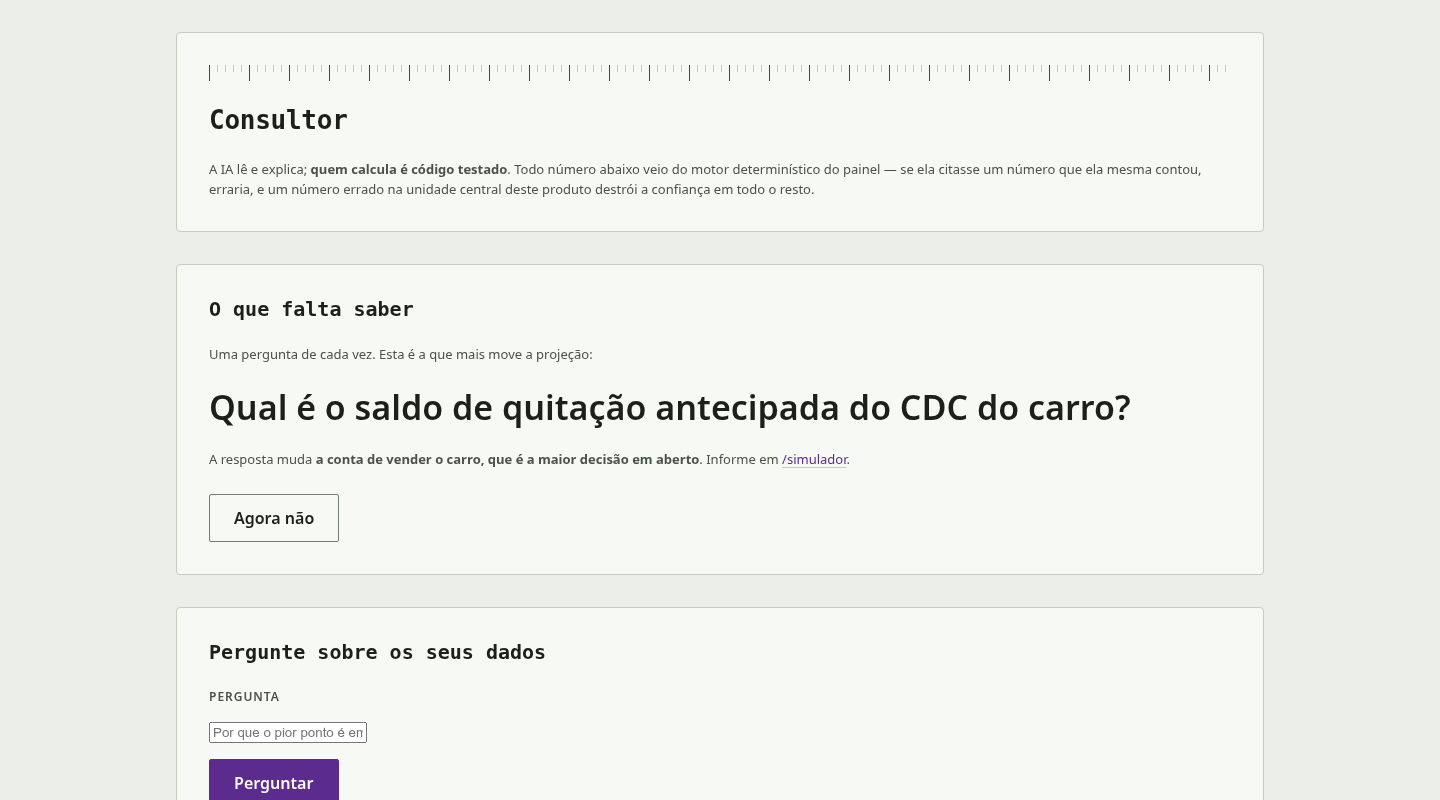
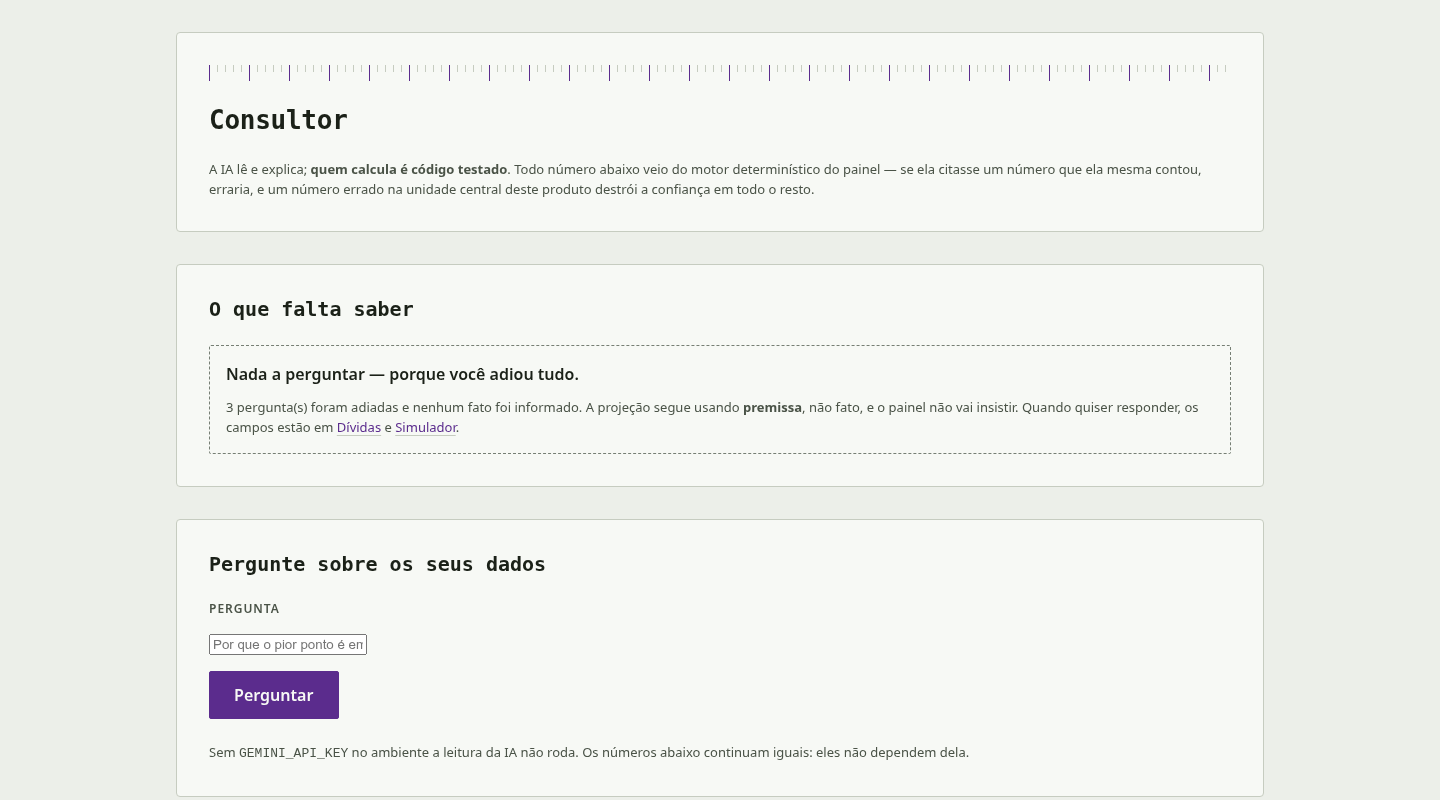
fix(009): the screen that proves the model invents nothing was showing five of eight lines
Approved, with five remarks; the first inverted the central guarantee of the
item. The table listed five numbers while the context sent eight — the three
left out included cash and card, so a figure the model was authorised to cite
would not be found on screen and would read as invention. Screen and context are
now one list, built in one place.

Also: the unavailability message carried the Python/httpx class name into pt-BR
prose, so a refused key, a timeout and a provider error all reached the owner as
the same unactionable sentence; "nothing to ask because everything is answered"
and "nothing to ask because you postponed everything" were the same state, and
only the first means the projection runs on fact; postponing accepted any string
as a primary key on an authenticated POST; and the deliberate acceptance of the
misspelled environment variable had no line saying why.

diff --git a/app/templates/consultor.html b/app/templates/consultor.html
@@ -28,9 +28,17 @@
     </form>
     {% else %}
     <div class="empty">
+      {% if postponed %}
+      <p class="empty-title">Nada a perguntar — porque você adiou tudo.</p>
+      <p class="lede">{{ postponed }} pergunta(s) foram adiadas e nenhum fato foi informado. A
+        projeção segue usando <strong>premissa</strong>, não fato, e o painel não vai insistir.
+        Quando quiser responder, os campos estão em <a href="/dividas">Dívidas</a> e
+        <a href="/simulador">Simulador</a>.</p>
+      {% else %}
       <p class="empty-title">Nada a perguntar.</p>
       <p class="lede">Tudo o que só você sabe já está informado e dentro da validade. Enquanto
         continuar assim, a projeção usa fato e não premissa.</p>
+      {% endif %}
     </div>
     {% endif %}
   </section>
@@ -56,23 +64,20 @@
   </section>
   <section id="numeros" class="panel panel-wide">
     <h2 class="section-title">O que ela lê</h2>
-    <p class="lede">Este é o contexto exato que vai para o modelo. Ele pode copiar daqui e mais
-      nada.</p>
+    <p class="lede">Este é o contexto exato que vai para o modelo — as mesmas linhas, na mesma
+      ordem. Ele pode copiar daqui e mais nada, e por isso você acha na tela todo número que ele
+      citar.</p>
     <div class="table-scroll">
       <table class="data-table">
         <caption class="sr-only">Números determinísticos entregues ao modelo.</caption>
         <thead><tr><th scope="col">Número</th><th scope="col" class="col-num">Valor</th></tr></thead>
         <tbody>
-          <tr data-numero="consolidada"><td>Posição consolidada</td>
-            <td class="cifra col-num">{{ numbers['consolidated']|brl }}</td></tr>
-          <tr data-numero="comprometido"><td>Comprometido por mês</td>
-            <td class="cifra col-num">{{ numbers['committed']|brl }}</td></tr>
-          <tr data-numero="resultado"><td>Resultado mensal</td>
-            <td class="cifra col-num">{{ numbers['monthly_result']|brl }}</td></tr>
-          <tr data-numero="reserva"><td>Reserva alvo</td>
-            <td class="cifra col-num">{{ numbers['reserve_target']|brl }}</td></tr>
-          <tr data-numero="pior"><td>Pior ponto dos próximos 45 dias</td>
-            <td class="cifra col-num">{{ numbers['worst_balance']|brl }}</td></tr>
+          {% for line in context_lines %}
+          <tr data-numero="{{ loop.index }}">
+            <td>{{ line['label'] }}</td>
+            <td class="cifra col-num">{{ line['value'] }}</td>
+          </tr>
+          {% endfor %}
         </tbody>
       </table>
     </div>

diff --git a/app/advisor/context.py b/app/advisor/context.py
@@ -27,25 +27,34 @@ def snapshot(conn: sqlite3.Connection, *, today: date) -> dict:
     }
 
 
-def as_text(numbers: dict) -> str:
-    # Every figure the model may say, spelled the way the screen spells it. It
-    # copies from here or it says it does not know: the model interprets, the
-    # code computes (invariante 23).
+def lines(numbers: dict) -> list[dict]:
+    # The screen renders these and the model receives these — one list, so the
+    # claim "you find on screen every number it may cite" stays true. Showing a
+    # subset would make the screen that exists to prove the model invents nothing
+    # the very thing that produces the suspicion.
     when = (
         f"{numbers['months_to_objective']} meses"
         if numbers["months_to_objective"] is not None
         else "não chega, enquanto o resultado mensal não virar positivo"
     )
-    return "\n".join(
-        (
-            f"Data de referência: {numbers['reference']}.",
-            f"Posição consolidada: {brl(numbers['consolidated'])}.",
-            f"Caixa: {brl(numbers['cash'])}. Cartão: {brl(numbers['card'])}.",
-            f"Comprometido por mês: {brl(numbers['committed'])}.",
-            f"Resultado mensal: {brl(numbers['monthly_result'])}.",
-            f"Reserva alvo: {brl(numbers['reserve_target'])}.",
-            f"Tempo até o objetivo: {when}.",
-            f"Pior ponto dos próximos 45 dias: {brl(numbers['worst_balance'])}"
-            f" em {numbers['worst_date']}.",
-        )
-    )
+    return [
+        {"label": "Data de referência", "value": numbers["reference"]},
+        {"label": "Posição consolidada", "value": brl(numbers["consolidated"])},
+        {"label": "Caixa", "value": brl(numbers["cash"])},
+        {"label": "Cartão", "value": brl(numbers["card"])},
+        {"label": "Comprometido por mês", "value": brl(numbers["committed"])},
+        {"label": "Resultado mensal", "value": brl(numbers["monthly_result"])},
+        {"label": "Reserva alvo", "value": brl(numbers["reserve_target"])},
+        {"label": "Tempo até o objetivo", "value": when},
+        {
+            "label": f"Pior ponto dos próximos 45 dias, em {numbers['worst_date']}",
+            "value": brl(numbers["worst_balance"]),
+        },
+    ]
+
+
+def as_text(numbers: dict) -> str:
+    # Every figure the model may say, spelled the way the screen spells it. It
+    # copies from here or it says it does not know: the model interprets, the
+    # code computes (invariante 23).
+    return "\n".join(f"{line['label']}: {line['value']}." for line in lines(numbers))

diff --git a/tests/test_advisor.py b/tests/test_advisor.py
@@ -137,3 +137,66 @@ def test_the_snapshot_never_calls_the_model(taxonomy_conn, monkeypatch):
     conn = base(taxonomy_conn)
 
     assert snapshot(conn, today=date(2026, 9, 5))["consolidated"] is not None
+
+
+def test_the_screen_shows_every_line_the_model_receives(taxonomy_conn):
+    from app.advisor.context import lines
+
+    conn = base(taxonomy_conn)
+    numbers = snapshot(conn, today=REFERENCE)
+    shown = lines(numbers)
+    text = as_text(numbers)
+
+    assert len(shown) == len(text.splitlines())
+    for line in shown:
+        assert f"{line['label']}: {line['value']}." in text
+
+
+def test_a_question_that_is_not_in_the_catalogue_is_refused(taxonomy_conn):
+    from app.advisor.gaps import UnknownQuestionError
+
+    with pytest.raises(UnknownQuestionError):
+        dismiss(taxonomy_conn, "x" * 5000)
+    with pytest.raises(UnknownQuestionError):
+        dismiss(taxonomy_conn, "<script>alert(1)</script>")
+
+    assert taxonomy_conn.execute("SELECT COUNT(*) FROM advisor_questions").fetchone()[0] == 0
+
+
+def test_postponing_everything_is_not_the_same_as_answering_everything(taxonomy_conn):
+    from app.advisor.gaps import WANTED, postponed
+
+    conn = base(taxonomy_conn)
+    for wanted in WANTED:
+        dismiss(conn, wanted["name"])
+
+    assert next_question(conn, today=REFERENCE) is None
+    assert postponed(conn) == len(WANTED)
+
+
+def test_the_refusal_of_the_provider_is_said_in_portuguese(monkeypatch):
+    class Answer:
+        status_code = 401
+
+        def raise_for_status(self):
+            raise httpx.HTTPStatusError("401", request=None, response=self)
+
+    monkeypatch.setattr(httpx, "post", lambda *a, **k: Answer())
+
+    with pytest.raises(AdvisorUnavailableError) as refusal:
+        ask("e daí?", "contexto", api_key="chave-errada")
+
+    assert "chave foi recusada" in str(refusal.value)
+    assert "HTTPStatusError" not in str(refusal.value)
+
+
+def test_a_timeout_is_said_in_portuguese(monkeypatch):
+    def slow(*args, **kwargs):
+        raise httpx.ReadTimeout("demorou")
+
+    monkeypatch.setattr(httpx, "post", slow)
+
+    with pytest.raises(AdvisorUnavailableError) as refusal:
+        ask("e daí?", "contexto", api_key="chave")
+
+    assert "demorou demais" in str(refusal.value)

diff --git a/app/advisor/gemini.py b/app/advisor/gemini.py
@@ -25,6 +25,27 @@ class AdvisorUnavailableError(RuntimeError):
     pass
 
 
+UNAUTHORISED = (401, 403)
+TOO_MANY = 429
+
+
+def _refused(status: int) -> str:
+    # The owner cannot act on "HTTPStatusError". They can act on "the key was
+    # refused" (norma 16: interface em pt-BR, e erro que diz o próximo ato).
+    if status in UNAUTHORISED:
+        return "a chave foi recusada pelo provedor"
+    if status == TOO_MANY:
+        return "o provedor recusou por excesso de chamadas; tente daqui a pouco"
+    return "o provedor respondeu com erro"
+
+
+def _said(reason: str) -> str:
+    return (
+        f"A leitura da IA está indisponível: {reason}. "
+        "Os números da tela são os mesmos, e eles não dependem dela."
+    )
+
+
 @dataclass(frozen=True)
 class Reading:
     text: str
@@ -51,11 +72,14 @@ def ask(question: str, context: str, *, api_key: str | None) -> Reading:
         answer.raise_for_status()
         parts = answer.json()["candidates"][0]["content"]["parts"]
         text = "".join(part.get("text", "") for part in parts).strip()
-    except (httpx.HTTPError, KeyError, IndexError, ValueError, json.JSONDecodeError) as failure:
-        raise AdvisorUnavailableError(
-            f"A leitura da IA está indisponível ({type(failure).__name__}). "
-            "Os números da tela são os mesmos, e eles não dependem dela."
-        ) from None
+    except httpx.TimeoutException:
+        raise AdvisorUnavailableError(_said("o modelo demorou demais para responder")) from None
+    except httpx.HTTPStatusError as failure:
+        raise AdvisorUnavailableError(_said(_refused(failure.response.status_code))) from None
+    except httpx.HTTPError:
+        raise AdvisorUnavailableError(_said("não foi possível alcançar o modelo")) from None
+    except (KeyError, IndexError, ValueError, json.JSONDecodeError):
+        raise AdvisorUnavailableError(_said("o modelo respondeu num formato inesperado")) from None
     if not text:
         raise AdvisorUnavailableError(
             "A leitura da IA voltou vazia. Os números da tela são os mesmos."

diff --git a/app/routers/advisor.py b/app/routers/advisor.py
@@ -6,8 +6,14 @@ from fastapi import APIRouter, Form
 from starlette.requests import Request
 from starlette.responses import Response
 
-from app.advisor.context import as_text, snapshot
-from app.advisor.gaps import dismiss, next_question, pending
+from app.advisor.context import as_text, lines, snapshot
+from app.advisor.gaps import (
+    UnknownQuestionError,
+    dismiss,
+    next_question,
+    pending,
+    postponed,
+)
 from app.advisor.gemini import AdvisorUnavailableError, ask
 from app.config import load_config
 from app.db import connect
@@ -72,9 +78,10 @@ def postpone(
     today = _reference(data)
     conn = connect()
     try:
-        if not nome.strip():
-            return _answer(request, conn, today, notice="Pergunta desconhecida.", status_code=400)
-        dismiss(conn, nome.strip())
+        try:
+            dismiss(conn, nome.strip())
+        except UnknownQuestionError as refusal:
+            return _answer(request, conn, today, notice=str(refusal), status_code=400)
         return _answer(request, conn, today)
     finally:
         conn.close()
@@ -110,8 +117,13 @@ def _context(conn: sqlite3.Connection, today: date) -> dict[str, Any]:
         "reference": today.isoformat(),
         "numbers": numbers,
         "context_text": as_text(numbers),
+        "context_lines": lines(numbers),
         "question": next_question(conn, today=today),
         "pending": pending(conn, today=today),
+        # "Nothing to ask because everything is answered" and "nothing to ask
+        # because you postponed everything" are different states, and only one of
+        # them means the projection is running on fact.
+        "postponed": postponed(conn) if not next_question(conn, today=today) else 0,
         "action": SCREEN,
         "dismiss_action": DISMISS,
         "has_key": bool(load_config().gemini_api_key),

diff --git a/app/advisor/gaps.py b/app/advisor/gaps.py
@@ -56,7 +56,21 @@ def next_question(conn: sqlite3.Connection, *, today: date) -> dict | None:
     return found[0] if found else None
 
 
+class UnknownQuestionError(LookupError):
+    pass
+
+
+def postponed(conn: sqlite3.Connection) -> int:
+    return conn.execute(
+        "SELECT COUNT(*) FROM advisor_questions WHERE dismissed_at IS NOT NULL"
+    ).fetchone()[0]
+
+
 def dismiss(conn: sqlite3.Connection, name: str) -> None:
+    # Only a name from the catalogue: any string would grow the table without a
+    # ceiling on an authenticated POST, and none of them would ever be shown.
+    if name not in {wanted["name"] for wanted in WANTED}:
+        raise UnknownQuestionError("Pergunta desconhecida.")
     conn.execute(
         "INSERT INTO advisor_questions (name, asked_at, dismissed_at) "
         "VALUES (?, datetime('now'), datetime('now')) "

diff --git a/app/config.py b/app/config.py
@@ -62,6 +62,9 @@ def load_config(env: Mapping[str, str] | None = None) -> Config:
     return Config(
         login=_first(env, "LOGIN"),
         password=_first(env, "PASSWORD", "PASSORD"),
+        # Both spellings on purpose: the typo is the one already written in the
+        # owner's environment, and renaming a variable in someone else's .env is
+        # not this program's business (regra 11, contorno externo).
         gemini_api_key=_first(env, "GEMINI_API_KEY", "GEMIMI_API_KEY"),
         db_path=_first(env, "DASH_DB_PATH") or DEFAULT_DB_PATH,
         session_secret=_first(env, "SESSION_SECRET"),

diff --git a/product/items/009-ia-consultora/decisoes-autonomas.md b/product/items/009-ia-consultora/decisoes-autonomas.md
@@ -6,3 +6,4 @@
 | D2 | discovery | A ordem das perguntas é **fixa e declarada**, do que mais move a projeção | Ordenar por impacto calculado a cada leitura | Calcular o impacto de um fato que não se tem exigiria simular com um valor inventado — o oposto do que este item promete. A ordem está escrita, com o porquê de cada posição ao lado, e muda quando alguém decidir que muda. |
 | D3 | discovery | A tela **mostra o contexto** que vai para o modelo | Mandar o contexto em silêncio | O dono precisa poder ver de onde veio cada número que ele lê. É também a defesa mais barata contra o modelo citar coisa que não está lá: o que ele pode dizer está à vista. |
 | D4 | discovery | Indisponibilidade da IA é `200` com aviso, nunca `500` | Deixar o erro subir | A tela existe para mostrar número determinístico. Derrubar a página porque o modelo não respondeu seria deixar a parte confiável refém da parte que não é. |
+| D5 | fase 1 | Os cinco apontamentos do veredicto viraram requisito (`RF-16` a `RF-19`) e foram corrigidos com teste, **sem rodada nova** | Uma segunda validação cega | Mesma régua do `005` e do `006`: uma validação por fase. O mais importante invertia a garantia central do item — a tela mostrava cinco das oito linhas que vão para o modelo, então um número que ele citasse legitimamente (caixa, cartão) não seria encontrado na tela e leria como invenção. |

diff --git a/product/items/009-ia-consultora/03-plan.md b/product/items/009-ia-consultora/03-plan.md
@@ -58,6 +58,20 @@ DASH_KEY_PATH=/tmp/dash-009.key .venv/bin/python -m app`. **Nenhuma variável
       `rtk proxy grep -c "NUNCA CALCULA" app/advisor/gemini.py` imprime `1`, e
       `rtk proxy grep -REn --exclude-dir=__pycache__ "httpx" app/advisor` imprime
       linhas **apenas** de `app/advisor/gemini.py`
+- [ ] `comportamental` — RF-16, RF-18, RF-19
+      *Dado* o servidor rodando e um cookie válido
+      *Quando* a tela é lida, as **três** perguntas são adiadas uma a uma, a tela
+      é lida de novo, e um `POST /consultor/adiar` é feito com `nome=xxxx`
+      *Então* a primeira leitura traz **nove** elementos `data-numero`, o mesmo
+      número de linhas que `app.advisor.context.as_text` produz; a segunda traz o
+      texto `porque você adiou tudo` e a palavra `premissa`; e o último `POST`
+      devolve `400`
+- [ ] `comando` — RF-17
+      `rtk proxy env DASH_ENV_FILE=/dev/null .venv/bin/python -m pytest -q
+      tests/test_advisor.py` sai com código 0, e o arquivo contém um teste que
+      afirma que uma recusa `401` do provedor devolve mensagem com `chave foi
+      recusada` e **sem** a string `HTTPStatusError`, e outro que afirma que um
+      timeout devolve `demorou demais`
 - [ ] `comportamental` — RF-15
       *Dado* o Chromium com `prefers-reduced-motion: reduce` emulado, sessão
       válida e `http://127.0.0.1:8000/consultor?data=2026-09-05` carregada

diff --git a/product/items/009-ia-consultora/01-brief.md b/product/items/009-ia-consultora/01-brief.md
@@ -27,3 +27,20 @@
 - **RF-14** — Pergunta vazia ou acima de 500 caracteres é recusada com `400`.
 - **RF-15** — A tela obedece à linguagem visual; nenhum número medido aparece
   como literal no código.
+
+## O que o veredicto obrigou a escrever
+
+- **RF-16** — A tabela da tela mostra **todas** as linhas que vão para o modelo,
+  não um subconjunto. Mostrava cinco de oito, e as três de fora incluíam caixa e
+  cartão: se o modelo citasse um deles — e a instrução o autoriza —, o dono não
+  acharia o número na tela e leria como invenção. A tela que existe para provar
+  que a IA não inventa era a que produzia a suspeita.
+- **RF-17** — A mensagem de indisponibilidade é **em português e acionável**:
+  chave recusada, excesso de chamadas, demora e formato inesperado dizem coisas
+  diferentes. Antes, todas chegavam com o nome da classe do erro em inglês.
+- **RF-18** — "Nada a perguntar porque está tudo respondido" e "nada a perguntar
+  porque você adiou tudo" são **estados diferentes**, e só o primeiro significa
+  que a projeção roda sobre fato. O segundo diz, com todas as letras, que ela
+  segue usando premissa.
+- **RF-19** — O adiamento aceita **apenas** nome do catálogo. Qualquer string ia
+  para a tabela como chave primária, sem teto, num POST autenticado.
